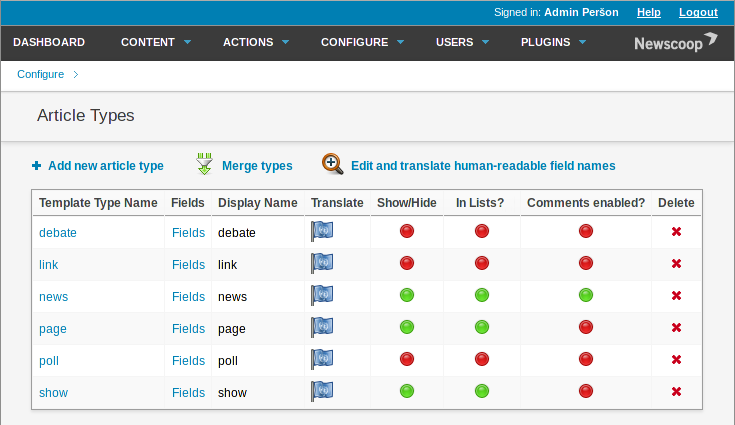
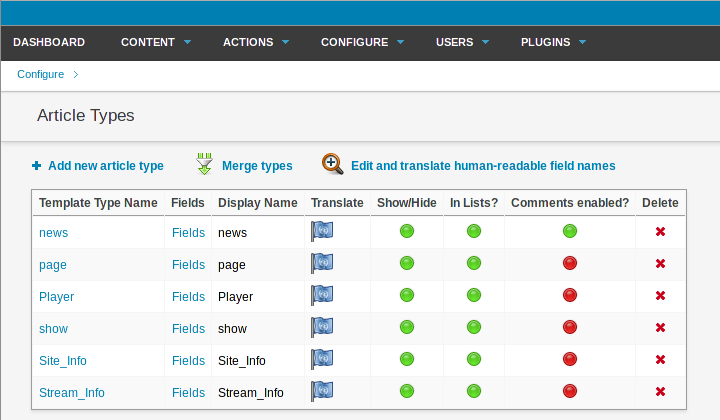
Added correct Article Types and updated screenshot

diff --git a/README.md b/README.md
@@ -19,23 +19,38 @@ The Newscoop administration interface includes a theme management and template e
 Setting up Article Types
 ========================
 
-The Broadcaster theme uses several *Article Types* to display content in different ways. Each Article Type has specific fields of various kinds. These types and fields are:
+The Broadcaster theme uses several *Article Types* to display content in different ways. Each Article Type has specific fields of various kinds. The *news* and *page* Article Types are standard in Newscoop, but the Broadcaster theme uses additional custom Article Types. These are the Article Types you should set up on your Newscoop server, and the fields they should contain:
 
-1. news (standard Article Type in Newscoop demo):
+1. news (standard Article Type):
    * highlight (switch) - to promote the article in lists
-   * deck (HTML WYSIWYG) - page description in meta and Open Graph tags
-   * full_text (HTML WYSIWYG) - body text for the article
+   * deck (Multi-line Text with WYSIWYG) - page description in meta and Open Graph tags
+   * full_text (Multi-line Text with WYSIWYG) - body text for the article
 
-2. page (standard Article Type in Newscoop demo):
-   * full_text (HTML WYSIWYG) - body text for the article
+2. page (standard Article Type):
+   * full_text (Multi-line Text with WYSIWYG) - body text for the article
 
-3. show (custom Article Type for Broadcaster):
-   * show_name (single line text) - the name of the show
-   * host (single line text) - the presenter of the show
-   * deck (multi line text) - page description in meta and Open Graph tags
-   * full_text (HTML WYSIWYG) - body text for the article
-   * shows (multi line text) - for SoundCloud links if you have them
-   * show_times (complex date) - dates of the show in question
+3. Player (custom Article Type):
+   * player (Single-line Text) - used for the stream player widget
+
+4. show (custom Article Type):
+   * show_name (Single-line Text) - the name of the show
+   * host (Single-line Text) - the presenter of the show
+   * deck (Multi-line Text) - page description in meta and Open Graph tags
+   * full_text (Multi-line Text with WYSIWYG) - body text for the article
+   * shows (Multi-line Text) - for SoundCloud links if you have them
+   * show_times (Complex Date) - dates of the show in question
+
+5. Site_Info (custom Article Type):
+   * Facebook (Single-line Text) - Facebook page of your station
+   * Twitter (Single-line Text) - Twitter page of your station
+   * Address (Multi-line Text with WYSIWYG) - street address of your station
+
+6. Stream_Info (custom Article Type):
+   * API (Single-line Text) - URL of your Airtime server (default: http://sourcefabric.airtime.pro)
+   * stream  (Single-line Text) - URL of your streaming server (default: http://sourcefabric.out.airtime.pro)
+   * stream_a (Single-line Text) - mount point of your first stream (default: sourcefabric_a)
+   * stream_b (Single-line Text) - mount point of your second stream (default: sourcefabric_b)
+   * port (Single-line Text) - Port used by your stream (default is: 8000)
 
 In the Newscoop administration interface, click **Configure** on the main navigation menu, then **Article Types**. If the news, page and show Article Types are not listed, you will have to create them, as shown in the manual chapter [Article Types](http://sourcefabric.booktype.pro/newscoop-42-for-journalists-and-editors/article-types/). Then the list of Article Types should look like this:
 
